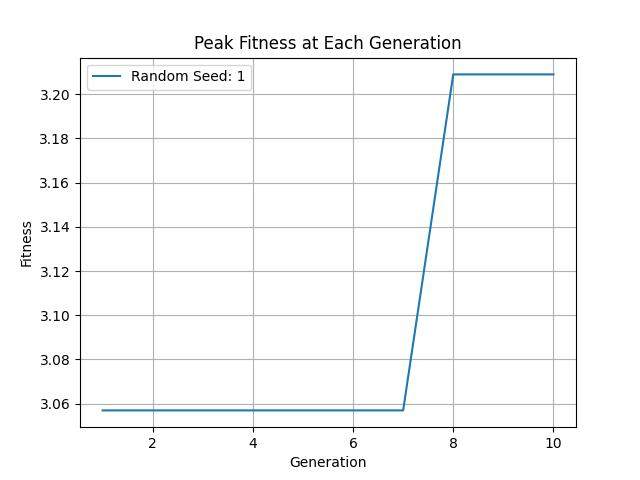
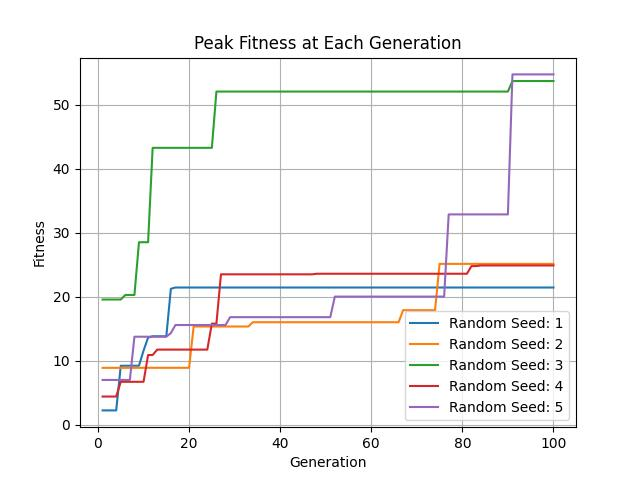
done

diff --git a/solution.py b/solution.py
@@ -16,7 +16,7 @@ class SOLUTION:
         self.num_joints = 4
         self.links_with_sensors = [1]
         for i in range(2, self.num_joints + 2):
-            if np.random.random() > .5:
+            if np.random.random() > .2:
                 self.links_with_sensors.append(i)
 
         self.link_sizes = [[np.random.random(), np.random.random(), np.random.random()] for i in range(self.num_joints + 1)]
@@ -69,9 +69,9 @@ class SOLUTION:
 
     def Create_Robot_Data(self):
 
-        lastpos = [0, 0, 1 + self.link_sizes[0][2] / 2]
+        lastpos = [0, 0, self.link_sizes[0][2] / 2]
         self.link_posns.append(lastpos)
-        self.joint_posns.append([self.link_sizes[0][0] / 2, 0, 1+self.link_sizes[0][2]])
+        self.joint_posns.append([self.link_sizes[0][0] / 2, 0, self.link_sizes[0][2]])
         self.joint_axes.append("0 1 0")
         self.directions.append(0)
         self.link_to_centers.append(lastpos)

diff --git a/robot.py b/robot.py
@@ -55,9 +55,9 @@ class ROBOT:
     def Get_Fitness(self):
         stateOfLinkZero = p.getLinkState(self.robotID, 0)
         positionOfLinkZero = stateOfLinkZero[0]
-        yCoordinateOfLinkZero = positionOfLinkZero[1]
+        xCoordinateOfLinkZero = positionOfLinkZero[0]
 
         with open('fitnesstmp{}.txt'.format(self.myID), 'w') as f:
-            f.write(str(yCoordinateOfLinkZero))
+            f.write(str(xCoordinateOfLinkZero))
 
         os.system('mv {} {}'.format('fitnesstmp{}.txt'.format(self.myID), 'fitness{}.txt'.format(self.myID)))

diff --git a/parallelHillClimber.py b/parallelHillClimber.py
@@ -26,6 +26,7 @@ class PARALLEL_HILL_CLIMBER:
 
         for currentGeneration in range(c.numberOfGenerations):
             self.Evolve_For_One_Generation()
+            print("DONE: {}".format(currentGeneration))
 
     def Evaluate(self, solutions):
         for parent in solutions.values():
@@ -75,4 +76,5 @@ class PARALLEL_HILL_CLIMBER:
                 best_parent = parent
 
         best_parent.Start_Simulation('GUI')
+        best_parent.Wait_For_Simulation_To_End()
 

diff --git a/search.py b/search.py
@@ -11,8 +11,8 @@ import matplotlib.pyplot as plt
 
 if __name__ == '__main__':
 
-    for i in range(1, 2):
-        #np.random.seed(i)
+    for i in range(1, 6):
+        np.random.seed(i)
         phc = PARALLEL_HILL_CLIMBER()
         phc.Evolve()
         phc.Show_Best()

diff --git a/constants.py b/constants.py
@@ -19,8 +19,8 @@ MAX_FORCE = 50
 
 SLEEP_TIME = 1/60
 
-numberOfGenerations = 10
-populationSize = 20
+numberOfGenerations = 100
+populationSize = 10
 
 numSensorNeurons = 9
 numMotorNeurons = 8

diff --git a/README.md b/README.md
@@ -31,7 +31,7 @@ This process is represented in the following diagram:
 
 ![Plot](body_generation.jpeg)
 
-The brain is generated by first flipping a fair coin to decide if each body link is given a sensor. 
+The brain is generated by first flipping a biased coin to decide if each body link is given a sensor (80 percent chance of a given link having a sensor). 
 Each link with a sensor gets a corresponding sensor neuron and each joint a corresponding motor neuron.
 Then, the brain is made to be fully connected, meaning every sensor neuron connects to every motor neuron.
 Initially, the weights are given random values between -1 and 1.
@@ -52,7 +52,4 @@ Alternatively, a new link may be generated and placed at the end of the robot us
 
 # Credit
 
-This work is based off r/ludobots and makes extensive use of the Pyrosim library. 
-
-
-TODO: write bodies to file between runs, save bodies in lists, write up README w/ diagrams, evolve bodies or brains
+This work is based off r/ludobots and makes extensive use of the Pyrosim library.
